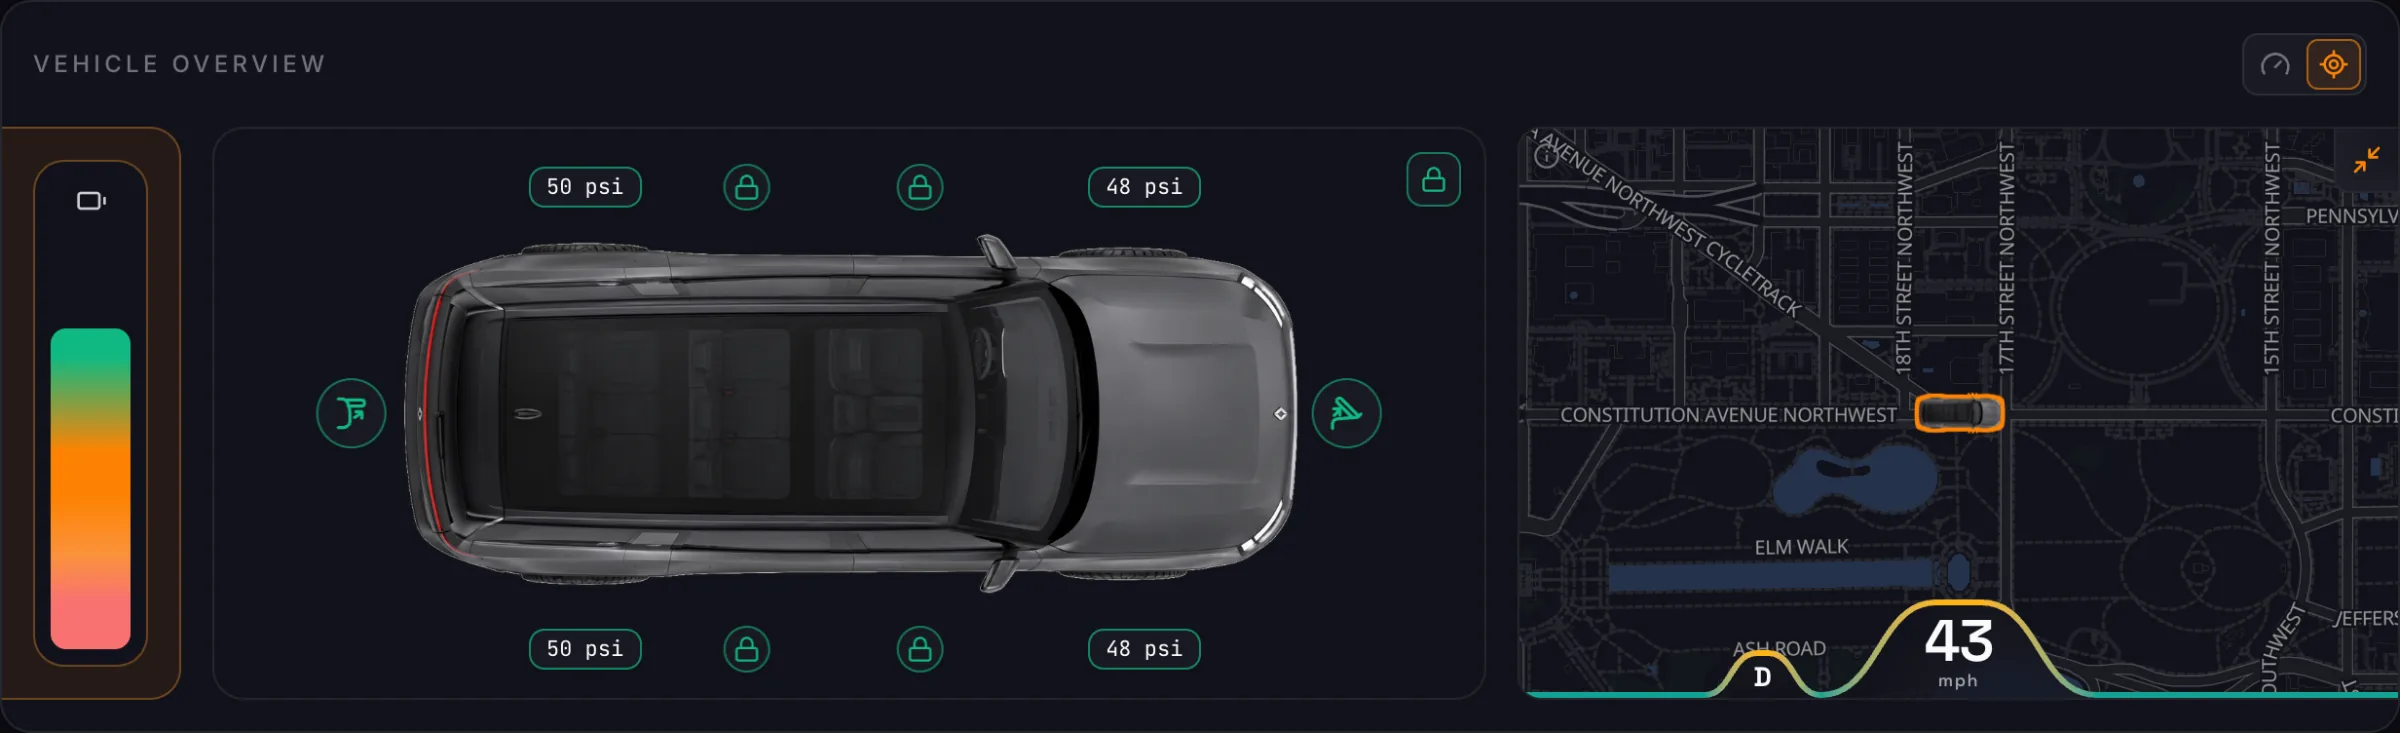
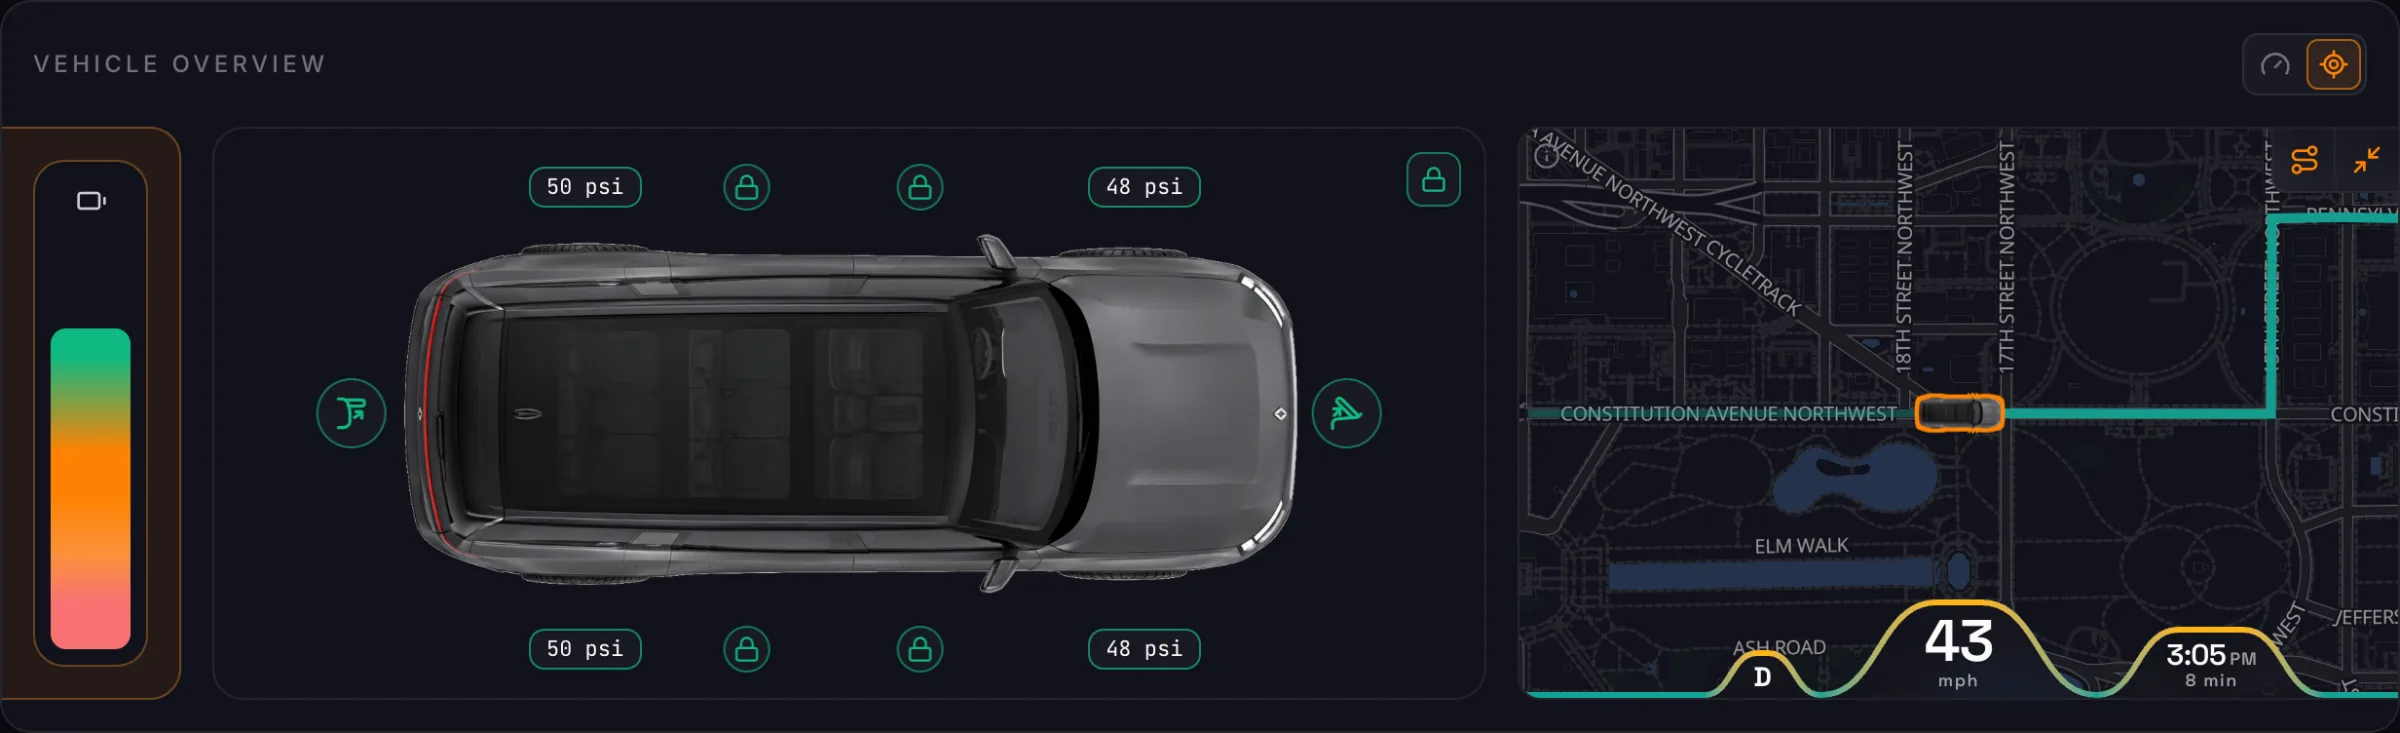
docs: recapture README and guide screenshots with the route map, in both themes
The README screenshots dated from July and showed an older interface.
Recapture the Overview and Charging dashboards from a demo vehicle at
desktop and phone sizes, in the Classic and RAD themes, light and dark.
The Overview map shows a navigated drive: route, destination, and arrival
time. Demo vehicles do not drive, so the drive is simulated on the page's
live connection, and the README says so.

- README: quick look regrouped by theme; the feature list mentions the
  live map and the two themes.
- Vehicle Overview guide: the map image follows the vehicle along a
  route, a whole-route image joins the Navigation section, and the
  cluster image is recaptured from the app.
- Appearance guide: a Classic and RAD comparison that reuses the README
  set.
- Docs home page uses the new Classic images. The social card keeps its
  PNG name and is recaptured.
- README images are WebP now; the old PNGs are removed.

diff --git a/apps/docs/src/pages/index.tsx b/apps/docs/src/pages/index.tsx
@@ -38,8 +38,8 @@ const quickLinks = [
 export default function Home(): ReactElement {
   const darkLogo = useBaseUrl('/logo-lockup-dark.png');
   const lightLogo = useBaseUrl('/logo-lockup-light.png');
-  const darkOverview = useBaseUrl('/overview-desktop-dark.png');
-  const lightOverview = useBaseUrl('/overview-desktop-light.png');
+  const darkOverview = useBaseUrl('/overview-desktop-classic-dark.webp');
+  const lightOverview = useBaseUrl('/overview-desktop-classic-light.webp');
 
   return (
     <Layout

diff --git a/README.md b/README.md
@@ -18,7 +18,7 @@ With all that said, but shoutout to the guys over at Teslamate, I definitely use
 
 ## What Riviamigo does
 
-- **Vehicle overview:** See battery state, estimated range, charging status, lock state, tire pressure, cabin details, vehicle details, and other current information in one place.
+- **Vehicle overview:** See battery state, estimated range, charging status, lock state, tire pressure, cabin details, vehicle details, and other current information in one place. A live map follows the vehicle and, while it is navigating, shows its route, destination, and arrival time.
 - **Battery and health:** Follow state of charge, range, charging limits, battery history, phantom drain, and the health signals Rivian makes available.
 - **Charging:** Review charging sessions, energy use, charging curves, connection status, and charging history.
 - **Trips and efficiency:** Browse trip history, route context, mileage, driving efficiency, and longer-term trends.
@@ -26,7 +26,7 @@ With all that said, but shoutout to the guys over at Teslamate, I definitely use
 - **Custom dashboards:** Use the built-in dashboards as they are, edit the installation-wide defaults, or make personal copies with the widgets and charts you care about.
 - **Multiple vehicles:** Connect and switch between more than one vehicle in the same installation.
 - **Sharing:** Invite other people to the installation and give them access only to the vehicles they should see. Vehicle access can be managed with owner, manager, and viewer roles.
-- **Desktop and mobile:** Use the same responsive interface from a desktop, tablet, or phone, with light and dark themes.
+- **Desktop and mobile:** Use the same responsive interface from a desktop, tablet, or phone, with light and dark modes in the Classic and RAD themes, or a theme of your own.
 - **Optional connections:** Choose whether to use remote, self-hosted, or disabled providers for weather, maps, and geocoding.
 - **Demo vehicles:** Create an R1T, R1S, or R2 with realistic sample history so you can explore the app without connecting a Rivian account.
 
@@ -34,27 +34,42 @@ The exact data available depends on what Rivian reports, and that can change ove
 
 ## A quick look
 
-These are live, redacted views of Riviamigo at desktop and mobile sizes.
+These views show Riviamigo with a demo vehicle at desktop and phone sizes, in both built-in themes. The Overview map shows a drive in progress: the vehicle's navigation route, its destination, and the arrival time. Demo vehicles do not drive, so that drive is simulated for the screenshots.
 
-### Desktop
+### Classic theme
 
 **Overview**
 
 | Light | Dark |
 | --- | --- |
-| ![Riviamigo overview in light mode on desktop](./docs/assets/readme/overview-desktop-light.png) | ![Riviamigo overview in dark mode on desktop](./docs/assets/readme/overview-desktop-dark.png) |
+| ![Riviamigo overview in the Classic theme, light mode, on desktop](./docs/assets/readme/overview-desktop-classic-light.webp) | ![Riviamigo overview in the Classic theme, dark mode, on desktop](./docs/assets/readme/overview-desktop-classic-dark.webp) |
 
 **Charging**
 
 | Light | Dark |
 | --- | --- |
-| ![Riviamigo charging dashboard in light mode on desktop](./docs/assets/readme/charging-desktop-light.png) | ![Riviamigo charging dashboard in dark mode on desktop](./docs/assets/readme/charging-desktop-dark.png) |
+| ![Riviamigo charging dashboard in the Classic theme, light mode, on desktop](./docs/assets/readme/charging-desktop-classic-light.webp) | ![Riviamigo charging dashboard in the Classic theme, dark mode, on desktop](./docs/assets/readme/charging-desktop-classic-dark.webp) |
 
-### Mobile
+### RAD theme
 
-| Overview, light | Overview, dark | Charging, light | Charging, dark |
-| --- | --- | --- | --- |
-| <img src="./docs/assets/readme/overview-mobile-light.png" alt="Riviamigo overview in light mode on mobile" width="180" /> | <img src="./docs/assets/readme/overview-mobile-dark.png" alt="Riviamigo overview in dark mode on mobile" width="180" /> | <img src="./docs/assets/readme/charging-mobile-light.png" alt="Riviamigo charging dashboard in light mode on mobile" width="180" /> | <img src="./docs/assets/readme/charging-mobile-dark.png" alt="Riviamigo charging dashboard in dark mode on mobile" width="180" /> |
+**Overview**
+
+| Light | Dark |
+| --- | --- |
+| ![Riviamigo overview in the RAD theme, light mode, on desktop](./docs/assets/readme/overview-desktop-rad-light.webp) | ![Riviamigo overview in the RAD theme, dark mode, on desktop](./docs/assets/readme/overview-desktop-rad-dark.webp) |
+
+**Charging**
+
+| Light | Dark |
+| --- | --- |
+| ![Riviamigo charging dashboard in the RAD theme, light mode, on desktop](./docs/assets/readme/charging-desktop-rad-light.webp) | ![Riviamigo charging dashboard in the RAD theme, dark mode, on desktop](./docs/assets/readme/charging-desktop-rad-dark.webp) |
+
+### Phone
+
+| | Classic, light | Classic, dark | RAD, light | RAD, dark |
+| --- | --- | --- | --- | --- |
+| Overview | <img src="./docs/assets/readme/overview-mobile-classic-light.webp" alt="Riviamigo overview in the Classic theme, light mode, on a phone" width="180" /> | <img src="./docs/assets/readme/overview-mobile-classic-dark.webp" alt="Riviamigo overview in the Classic theme, dark mode, on a phone" width="180" /> | <img src="./docs/assets/readme/overview-mobile-rad-light.webp" alt="Riviamigo overview in the RAD theme, light mode, on a phone" width="180" /> | <img src="./docs/assets/readme/overview-mobile-rad-dark.webp" alt="Riviamigo overview in the RAD theme, dark mode, on a phone" width="180" /> |
+| Charging | <img src="./docs/assets/readme/charging-mobile-classic-light.webp" alt="Riviamigo charging dashboard in the Classic theme, light mode, on a phone" width="180" /> | <img src="./docs/assets/readme/charging-mobile-classic-dark.webp" alt="Riviamigo charging dashboard in the Classic theme, dark mode, on a phone" width="180" /> | <img src="./docs/assets/readme/charging-mobile-rad-light.webp" alt="Riviamigo charging dashboard in the RAD theme, light mode, on a phone" width="180" /> | <img src="./docs/assets/readme/charging-mobile-rad-dark.webp" alt="Riviamigo charging dashboard in the RAD theme, dark mode, on a phone" width="180" /> |
 
 ## Quick install
 

diff --git a/docs/guides/themes.md b/docs/guides/themes.md
@@ -20,6 +20,22 @@ Appearance mode and theme are separate:
 Riviamigo does not copy a previous browser's local theme setting into the
 account. Before sign-in and after logout it uses Classic dark.
 
+## Classic and RAD
+
+The two built-in themes, each in light and dark mode, on the Overview
+dashboard:
+
+| | Light | Dark |
+| --- | --- | --- |
+| **Classic** | ![The Overview dashboard in the Classic theme, light mode](../assets/readme/overview-desktop-classic-light.webp) | ![The Overview dashboard in the Classic theme, dark mode](../assets/readme/overview-desktop-classic-dark.webp) |
+| **RAD** | ![The Overview dashboard in the RAD theme, light mode](../assets/readme/overview-desktop-rad-light.webp) | ![The Overview dashboard in the RAD theme, dark mode](../assets/readme/overview-desktop-rad-dark.webp) |
+
+On a phone:
+
+| Classic, light | Classic, dark | RAD, light | RAD, dark |
+| --- | --- | --- | --- |
+| ![The Overview on a phone in the Classic theme, light mode](../assets/readme/overview-mobile-classic-light.webp) | ![The Overview on a phone in the Classic theme, dark mode](../assets/readme/overview-mobile-classic-dark.webp) | ![The Overview on a phone in the RAD theme, light mode](../assets/readme/overview-mobile-rad-light.webp) | ![The Overview on a phone in the RAD theme, dark mode](../assets/readme/overview-mobile-rad-dark.webp) |
+
 ## Create a custom theme
 
 Choose **Create custom theme**, name it, and select Classic or RAD as its base.

diff --git a/docs/guides/vehicle-overview.md b/docs/guides/vehicle-overview.md
@@ -41,7 +41,7 @@ The two buttons in the panel's top right switch between the **cluster** view
 (the gauge) and the **current location** map (the crosshair). The map takes
 the place of the stat rows. The battery and the vehicle image stay.
 
-![The Vehicle Overview with the map expanded, showing the vehicle driving at 43 mph in Drive](../assets/guides/dashboards/vehicle-overview-map.webp)
+![The Vehicle Overview with the map expanded, following the vehicle along its route at 43 mph in Drive](../assets/guides/dashboards/vehicle-overview-map.webp)
 
 - **The marker** is a small overhead image of your vehicle, outlined in the
   accent color and turned the way its nose points. Rivian reports the direction
@@ -62,6 +62,8 @@ your account. The Overview opens the way you left it, on any device.
 
 While the vehicle is navigating to a destination, the map also shows where it
 is going:
+
+![The whole-route view: the vehicle, its route across downtown, and the destination marked with the Rivian mark](../assets/guides/dashboards/vehicle-overview-route.webp)
 
 - **The route** the vehicle planned is drawn ahead of it, with the part
   already driven dimmed.
